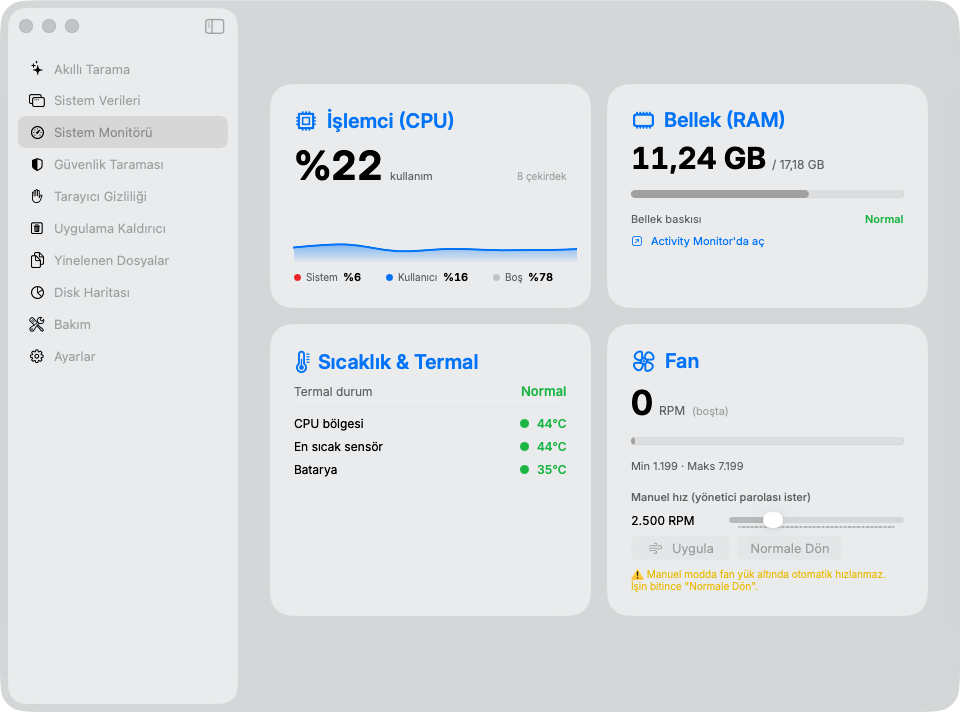
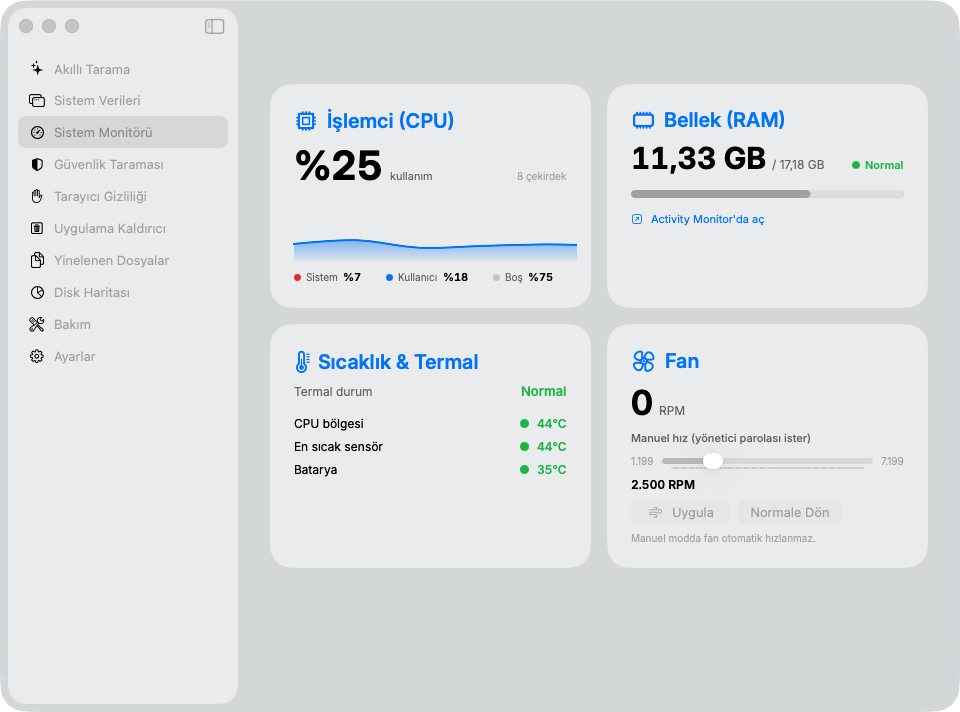
Sadeleştirme: sekmeli menü paneli + temiz fan kartı + RAM baskı rozeti
- Menü paneli sekmeli: Temizlik | Sistem | Fan. Fan sekmesinde doğrudan kontrol.
- Fan kartı (ana + panel): gereksiz progress bar, '(boşta)', ayrı Min/Maks satırı ve
  divider kaldırıldı; min/maks kaydırıcının iki ucunda; hedef RPM kendi satırında →
  butonlar kırpılmıyor; uyarı tek kısa satıra indi.
- RAM kartı: uzun 'Bellek baskısı' satırı yerine sade renkli durum rozeti (● Normal).

diff --git a/Sources/Features/MenuPanelView.swift b/Sources/Features/MenuPanelView.swift
@@ -14,7 +14,14 @@ final class PanelMetrics {
     var memUsed: Int64 = 0
     var memFraction: Double = 0
     var temp: Double?
-    var fan: Double?
+    var fanInfo: FanInfo?
+    var fan: Double? { fanInfo?.current }
+
+    // Fan kontrolü (yalnız M1/M2)
+    let fanControlSupported = SystemMetrics.fanControlSupported
+    var fanTarget: Double = 2500
+    var fanBusy = false
+    var fanError: String?
 
     private var task: Task<Void, Never>?
 
@@ -35,7 +42,20 @@ final class PanelMetrics {
         let m = SystemMetrics.memory()
         memUsed = m.used; memFraction = m.usedFraction
         temp = smc?.cpuTemperature()
-        fan = smc?.fan()?.current
+        fanInfo = smc?.fan()
+    }
+
+    func applyManualFan() async {
+        fanBusy = true; fanError = nil
+        do { try FanController.setManual(rpm: Int(fanTarget)) }
+        catch { fanError = error.localizedDescription }
+        fanBusy = false
+    }
+    func setAutoFan() async {
+        fanBusy = true; fanError = nil
+        do { try FanController.setAuto() }
+        catch { fanError = error.localizedDescription }
+        fanBusy = false
     }
 }
 
@@ -80,6 +100,14 @@ final class DiskMonitor {
     }
 }
 
+enum PanelTab: String, CaseIterable, Identifiable {
+    case cleaning, system, fan
+    var id: String { rawValue }
+    var title: String {
+        switch self { case .cleaning: "Temizlik"; case .system: "Sistem"; case .fan: "Fan" }
+    }
+}
+
 /// Menü çubuğundan açılan tek parça Liquid Glass panel.
 /// Barındıran NSPanel tam şeffaf; bu kart tek gerçek cam yüzeydir.
 struct MenuPanelView: View {
@@ -88,37 +116,27 @@ struct MenuPanelView: View {
 
     @State private var disk = DiskMonitor()
     @State private var sys = PanelMetrics()
+    @State private var tab: PanelTab = .cleaning
 
     var body: some View {
         VStack(alignment: .leading, spacing: DS.Spacing.m) {
             header
-            diskMetrics
-            Divider().opacity(0.3)
-            systemMetrics
-            Divider().opacity(0.3)
-            VStack(spacing: 2) {
-                row("Hızlı Tarama", "magnifyingglass") {
-                    model.selectedSection = .smartScan
-                    onOpenMain()
-                    Task { await model.scan() }
-                }
-                row("Güvenlik Taraması", "shield.lefthalf.filled") {
-                    model.selectedSection = .security
-                    onOpenMain()
-                }
-                row("Sistem Monitörü", "gauge.with.dots.needle.67percent") {
-                    model.selectedSection = .monitor
-                    onOpenMain()
-                }
-                row("Disk Haritası", "chart.pie") {
-                    model.selectedSection = .spaceLens
-                    onOpenMain()
-                }
-                row("Uygulama Kaldırıcı", "trash.square") {
-                    model.selectedSection = .uninstaller
-                    onOpenMain()
+
+            Picker("", selection: $tab) {
+                ForEach(PanelTab.allCases) { Text($0.title).tag($0) }
+            }
+            .pickerStyle(.segmented)
+            .labelsHidden()
+
+            Group {
+                switch tab {
+                case .cleaning: cleaningTab
+                case .system: systemTab
+                case .fan: fanTab
                 }
             }
+            .animation(.easeInOut(duration: 0.2), value: tab)
+
             Divider().opacity(0.3)
             footer
         }
@@ -128,6 +146,86 @@ struct MenuPanelView: View {
         .padding(10)
         .task { disk.start(); sys.start() }
         .onDisappear { disk.stop(); sys.stop() }
+    }
+
+    // MARK: - Sekmeler
+
+    private var cleaningTab: some View {
+        VStack(alignment: .leading, spacing: DS.Spacing.m) {
+            diskMetrics
+            VStack(spacing: 2) {
+                row("Hızlı Tarama", "magnifyingglass") {
+                    model.selectedSection = .smartScan; onOpenMain(); Task { await model.scan() }
+                }
+                row("Güvenlik Taraması", "shield.lefthalf.filled") {
+                    model.selectedSection = .security; onOpenMain()
+                }
+                row("Disk Haritası", "chart.pie") {
+                    model.selectedSection = .spaceLens; onOpenMain()
+                }
+                row("Uygulama Kaldırıcı", "trash.square") {
+                    model.selectedSection = .uninstaller; onOpenMain()
+                }
+            }
+        }
+    }
+
+    private var systemTab: some View {
+        VStack(alignment: .leading, spacing: DS.Spacing.m) {
+            systemMetrics
+            VStack(spacing: 2) {
+                row("Sistem Monitörü'nü Aç", "gauge.with.dots.needle.67percent") {
+                    model.selectedSection = .monitor; onOpenMain()
+                }
+                row("Bakım", "wrench.and.screwdriver") {
+                    model.selectedSection = .maintenance; onOpenMain()
+                }
+            }
+        }
+    }
+
+    private var fanTab: some View {
+        VStack(alignment: .leading, spacing: DS.Spacing.s) {
+            if let fan = sys.fanInfo {
+                HStack(alignment: .firstTextBaseline, spacing: 6) {
+                    Text("\(Int(fan.current))").font(.dsDisplay(34)).monospacedDigit().contentTransition(.numericText())
+                    Text("RPM").font(.iCallout).foregroundStyle(.secondary)
+                    Spacer()
+                }
+
+                if sys.fanControlSupported, fan.max > fan.min {
+                    Text("Manuel hız (yönetici parolası ister)").font(.iCaption2).foregroundStyle(.secondary)
+                    HStack(spacing: DS.Spacing.s) {
+                        Text("\(Int(fan.min))").font(.iCaption2).foregroundStyle(.tertiary)
+                        Slider(value: Binding(get: { sys.fanTarget }, set: { sys.fanTarget = $0 }), in: fan.min...fan.max, step: 50)
+                        Text("\(Int(fan.max))").font(.iCaption2).foregroundStyle(.tertiary)
+                    }
+                    Text("\(Int(sys.fanTarget)) RPM").font(.iCallout.weight(.semibold).monospacedDigit()).contentTransition(.numericText())
+                    HStack(spacing: DS.Spacing.s) {
+                        Button { Task { await sys.applyManualFan() } } label: {
+                            Label("Uygula", systemImage: "wind")
+                        }
+                        .buttonStyle(.borderedProminent).controlSize(.small).disabled(sys.fanBusy)
+                        Button("Normale Dön") { Task { await sys.setAutoFan() } }
+                            .buttonStyle(.bordered).controlSize(.small).disabled(sys.fanBusy)
+                        if sys.fanBusy { ProgressView().controlSize(.small) }
+                        Spacer()
+                    }
+                    if let e = sys.fanError {
+                        Text(e).font(.iCaption2).foregroundStyle(DS.Palette.danger).lineLimit(2)
+                    } else {
+                        Text("Manuel modda fan otomatik hızlanmaz.").font(.iCaption2).foregroundStyle(.tertiary)
+                    }
+                } else if !sys.fanControlSupported {
+                    Text("Fan kontrolü bu çipte (M3+) Apple tarafından kısıtlı — yalnızca okuma.")
+                        .font(.iCaption2).foregroundStyle(.tertiary).fixedSize(horizontal: false, vertical: true)
+                }
+            } else {
+                Text("Bu Mac'te fan yok veya okunamıyor (ör. MacBook Air).")
+                    .font(.iCallout).foregroundStyle(.secondary)
+            }
+        }
+        .frame(maxWidth: .infinity, alignment: .leading)
     }
 
     private var header: some View {
@@ -183,8 +281,6 @@ struct MenuPanelView: View {
 
     private var systemMetrics: some View {
         VStack(alignment: .leading, spacing: DS.Spacing.s) {
-            Label("Sistem", systemImage: "gauge.with.dots.needle.67percent")
-                .font(.iCaption.weight(.medium)).foregroundStyle(.secondary)
             HStack(spacing: DS.Spacing.m) {
                 metric("İşlemci", "%\(Int((sys.cpu * 100).rounded()))", DS.Palette.accent)
                 metric("Bellek", sys.memUsed.formattedBytes, .primary)

diff --git a/Sources/Features/SystemMonitorView.swift b/Sources/Features/SystemMonitorView.swift
@@ -176,16 +176,15 @@ struct SystemMonitorView: View {
                 HStack(alignment: .firstTextBaseline, spacing: 6) {
                     Text(model.memory.used.formattedBytes).font(.dsDisplay(30)).monospacedDigit()
                     Text("/ \(model.memory.total.formattedBytes)").font(.iCallout).foregroundStyle(.secondary)
+                    Spacer()
+                    HStack(spacing: 5) {
+                        Circle().fill(pressureColor).frame(width: 8, height: 8)
+                        Text(model.memory.pressureTitle).font(.iCaption.weight(.semibold)).foregroundStyle(pressureColor)
+                    }
                 }
                 ProgressView(value: model.memory.usedFraction)
                     .tint(model.memory.usedFraction > 0.9 ? DS.Palette.danger : DS.Palette.safe)
                     .animation(.easeInOut(duration: 0.4), value: model.memory.usedFraction)
-                HStack {
-                    Text("Bellek baskısı").font(.iCaption).foregroundStyle(.secondary)
-                    Spacer()
-                    Text(model.memory.pressureTitle).font(.iCaption.weight(.semibold))
-                        .foregroundStyle(pressureColor)
-                }
                 Button {
                     NSWorkspace.shared.open(URL(fileURLWithPath: "/System/Applications/Utilities/Activity Monitor.app"))
                 } label: {
@@ -245,10 +244,8 @@ struct SystemMonitorView: View {
                     HStack(alignment: .firstTextBaseline, spacing: 6) {
                         Text("\(Int(fan.current))").font(.dsDisplay(34)).monospacedDigit().contentTransition(.numericText())
                         Text("RPM").font(.iCallout).foregroundStyle(.secondary)
-                        if fan.current == 0 { Text("(boşta)").font(.iCaption).foregroundStyle(.tertiary) }
+                        Spacer()
                     }
-                    ProgressView(value: fan.max > 0 ? fan.current / fan.max : 0).tint(DS.Palette.accent)
-                    Text("Min \(Int(fan.min)) · Maks \(Int(fan.max))").font(.iCaption).foregroundStyle(.secondary)
                     fanControls(fan)
                 } else {
                     Text("Bu Mac'te fan yok veya okunamıyor (ör. MacBook Air).")
@@ -261,13 +258,15 @@ struct SystemMonitorView: View {
     @ViewBuilder
     private func fanControls(_ fan: FanInfo) -> some View {
         if model.fanControlSupported, fan.max > fan.min {
-            Divider().opacity(0.2)
             Text("Manuel hız (yönetici parolası ister)").font(.iCaption.weight(.medium)).foregroundStyle(.secondary)
-            HStack {
-                Text("\(Int(model.fanTarget)) RPM").font(.iCallout.monospacedDigit()).frame(width: 90, alignment: .leading)
+            HStack(spacing: DS.Spacing.s) {
+                Text("\(Int(fan.min))").font(.iCaption2).foregroundStyle(.tertiary)
                 Slider(value: Binding(get: { model.fanTarget }, set: { model.fanTarget = $0 }),
                        in: fan.min...fan.max, step: 50)
+                Text("\(Int(fan.max))").font(.iCaption2).foregroundStyle(.tertiary)
             }
+            Text("\(Int(model.fanTarget)) RPM").font(.iCallout.weight(.semibold).monospacedDigit())
+                .contentTransition(.numericText())
             HStack(spacing: DS.Spacing.s) {
                 Button { Task { await model.applyManualFan() } } label: {
                     Label("Uygula", systemImage: "wind").padding(.horizontal, 4)
@@ -278,11 +277,12 @@ struct SystemMonitorView: View {
                 if model.fanBusy { ProgressView().controlSize(.small) }
                 Spacer()
             }
-            Text("⚠ Manuel modda fan yük altında otomatik hızlanmaz. İşin bitince \"Normale Dön\".")
-                .font(.iCaption2).foregroundStyle(DS.Palette.caution).fixedSize(horizontal: false, vertical: true)
-            if let e = model.fanError { Text(e).font(.iCaption2).foregroundStyle(DS.Palette.danger) }
+            if let e = model.fanError {
+                Text(e).font(.iCaption2).foregroundStyle(DS.Palette.danger)
+            } else {
+                Text("Manuel modda fan otomatik hızlanmaz.").font(.iCaption2).foregroundStyle(.tertiary)
+            }
         } else if !model.fanControlSupported {
-            Divider().opacity(0.2)
             Text("Fan kontrolü bu çipte (M3+) Apple tarafından kısıtlı — yalnızca okuma.")
                 .font(.iCaption2).foregroundStyle(.tertiary).fixedSize(horizontal: false, vertical: true)
         }
